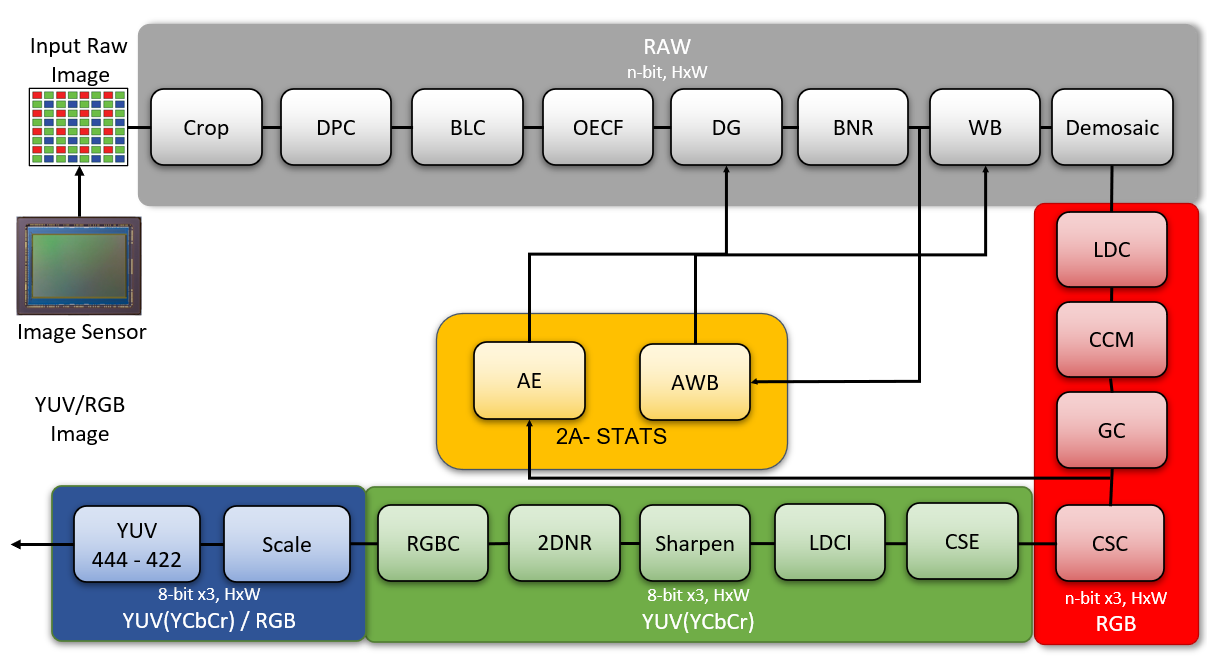
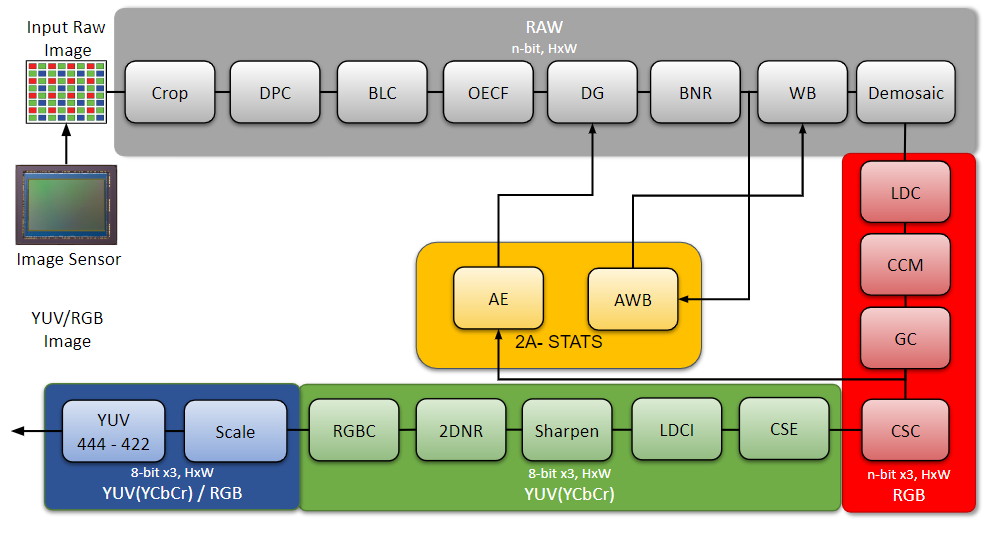
Talhaiqbal 10xe patch 1 (#35)
* update repo links and add dev flow

* update repo flow diagram

* update readme

* Update Infinite-ISP_Repo_Flow.png

* update repo links

* minor edit

* Update infinite-isp-architecture-initial.png

* minor edit in readme

* Update readme header

* update repo flow diagram link

* update readme header and repo flow diagram

* Update infinite-isp-architecture-initial.png

* Update README.md

diff --git a/README.md b/README.md
@@ -1,14 +1,18 @@
-
 # Infinite-ISP
-Infinite-ISP is a full-stack ISP development platform - from algorithm development to RTL design, FPGA/ASIC implementation, and associated firmware, tools, etc. It offers a unified platform that empowers ISP developers to accelerate ISP innovation. It includes a complete collection of camera pipeline modules written in Python, an FPGA bitstream & the associated Firmware for the implementation of the pipeline on the Kria KV260 development board, and lastly, a stand-alone Python-based Tuning Tool application for the pipeline. The main components of the Infinite-ISP project are listed below:
+Infinite-ISP is a comprehensive development platform designed for all aspects of a hardware ISP. It includes a collection of camera pipeline modules written in Python, a fixed-point reference model, an optimized RTL design, an FPGA integration framework and its associated firmware ready for Xilinx® Kria KV260 development board. The platform features a stand-alone Python-based Tuning Tool that allows tuning of ISP parameters for different sensors and applications. Finally, it also offers a software solution for Linux by providing required drivers and a custom application development stack to bring Infinite-ISP to the Linux platforms.
 
-| Repository name        | Description      | 
-| -------------  | ------------- |
-| **[Infinite-ISP_AlgorithmDesign](https://github.com/10x-Engineers/Infinite-ISP)** :anchor:                    | Python based model of the Infinite-ISP pipeline for algorithm development |
-| **[Infinite-ISP_ReferenceModel](https://github.com/10x-Engineers/Infinite-ISP_ReferenceModel)**                      | Python based fixed-point model of the Infinite-ISP pipeline for hardware implementation |
-| **[Infinite-ISP_FPGABinaries](https://github.com/10x-Engineers/Infinite-ISP_FPGABinaries)**                                      |FPGA binaries (bitstream + firmware executable) for the Xilinx® Kria KV260’s XCK26 Zynq UltraScale + MPSoC|
-| **[Infinite-ISP_Firmware](https://github.com/10x-Engineers/Infinite-ISP_Firmware)**                                      | Firmware for the Kria kV260’s embedded Arm® Cortex®A53 processor|
-| **[Infinite-ISP_TuningTool](https://github.com/10x-Engineers/Infinite-ISP_TuningTool)**                              | Collection of calibration and analysis tools for the Infinite-ISP |
+![](assets/Infinite-ISP_Repo_Flow.png)
+
+| Sr.     | Repository name        | Description      | 
+|---------| -------------  | ------------- |
+| 1  | **[Infinite-ISP_AlgorithmDesign](https://github.com/10x-Engineers/Infinite-ISP)** :anchor:  | Python based model of the Infinite-ISP pipeline for algorithm development |
+| 2  | **[Infinite-ISP_ReferenceModel](https://github.com/10x-Engineers/Infinite-ISP_ReferenceModel)**                      | Python based fixed-point model of the Infinite-ISP pipeline for hardware implementation |
+| 3  | **[Infinite-ISP_RTL](https://github.com/10x-Engineers/Infinite-ISP_RTL)**  | RTL Verilog design of the image signal processor based on the Reference Model **[(Request Access)](https://docs.google.com/forms/d/e/1FAIpQLSfOIldU_Gx5h1yQEHjGbazcUu0tUbZBe0h9IrGcGljC5b4I-g/viewform?usp=sharing)**|
+| 4  | **[Infinite-ISP_Automated_Testing](https://github.com/10x-Engineers/Infinite-ISP_Automated_Testing)** | A framework to enable the automated block and multi-block level testing of the image signal processor to ensure a bit accurate design |
+| 5  | **FPGA Implementation** | FPGA implementation of Infinite-ISP on <br>  <ul><li>Xilinx® Kria KV260’s XCK26 Zynq UltraScale + MPSoC **[Infinite-ISP_FPGA_XCK26](https://github.com/10x-Engineers/Infinite-ISP_FPGA_XCK26)**</li></ul>   |
+| 6  | **[Infinite-ISP_FPGABinaries](https://github.com/10x-Engineers/Infinite-ISP_FPGABinaries)**         | FPGA binaries (bitstream + firmware executable) for the Xilinx® Kria KV260’s XCK26 Zynq UltraScale + MPSoC|
+| 7  | **[Infinite-ISP_TuningTool](https://github.com/10x-Engineers/Infinite-ISP_TuningTool)**                              | Collection of calibration and analysis tools for the Infinite-ISP |
+| 8  | **[Infinite-ISP_LinuxCameraStack](https://github.com/10x-Engineers/Infinite-ISP_LinuxCameraStack.git)** | Extending Linux support to Infinite-ISP and the developement of Linux-based camera application stack |
 
 
 # Infinite-ISP Algorithm Design: A Python-based Model for ISP Algorithm Development
